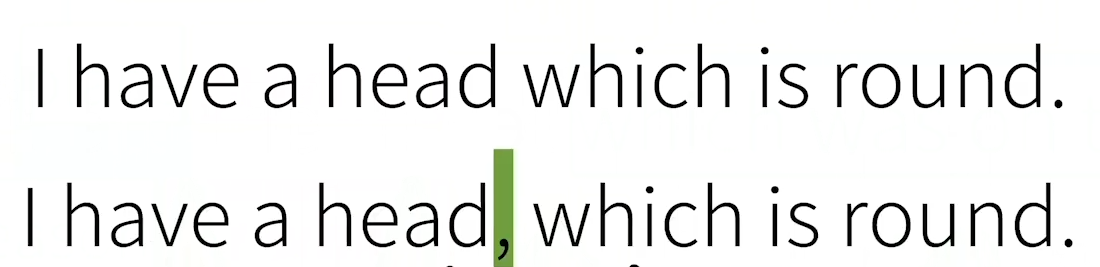
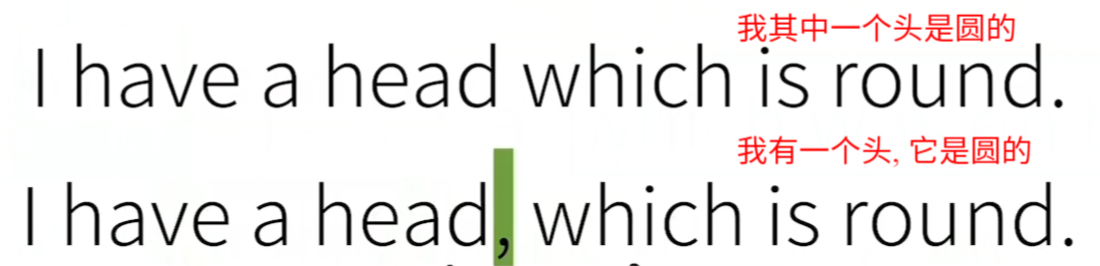
vault backup: 2025-05-13 00:17:40

diff --git a/人工智能/英语/英语兔/10. 从句.md b/人工智能/英语/英语兔/10. 从句.md
@@ -1,16 +1,16 @@
-![525x252](Exported%20image%2020250512104637-0.png)
+![](Exported%20image%2020250512104637-0.png)
 
 # 从句的分类
 
-![508x229](Exported%20image%2020250512104642-1.png)   
+![](Exported%20image%2020250512104642-1.png)   
 
-![521x253](Exported%20image%2020250512104644-2.png)  
+![](Exported%20image%2020250512104644-2.png)  
 
-![487x243](Exported%20image%2020250512104646-3.png)  
+![](Exported%20image%2020250512104646-3.png)  
 
-![539x237](Exported%20image%2020250512104648-4.png)  
+![](Exported%20image%2020250512104648-4.png)  
 
-![552x240](Exported%20image%2020250512104650-5.png)
+![](Exported%20image%2020250512104650-5.png)
 
 
 ## 形容词从句(定语从句)
@@ -18,12 +18,12 @@
 ### 形容词从句的思维方式
 
 #### 中文的定语
-![|558x297](Exported%20image%2020250512104652-6.png)
+![](Exported%20image%2020250512104652-6.png)
           
 #### 英语中的定语
-![](Exported%20image%2020250512104654-7.png)  
+![|700x340](Exported%20image%2020250512104654-7.png)  
 
-![](Exported%20image%2020250512104700-8.png)
+![|700x241](Exported%20image%2020250512104700-8.png)
         
 #### 中英思维方式不同
 ![](Exported%20image%2020250512104702-9.png)  
@@ -45,7 +45,7 @@
 ![](Exported%20image%2020250512104710-13.png)  
 
 ![](Exported%20image%2020250512104712-14.png)  
-            
+
 ##### 关系副词
 ![](Exported%20image%2020250512104717-15.png)
 
@@ -69,6 +69,7 @@
 
   
 ## 名词从句
+![](Exported%20image%2020250512105138-80.png)
 
 ### 主语从句
 
@@ -162,6 +163,7 @@
 
 
 ## 副词从句 (状语从句)
+![](Exported%20image%2020250512105139-81.png)
 
 ### 时间副词从句
 
@@ -220,6 +222,7 @@
 ![](Exported%20image%2020250512105136-79.png)  
 
 ### 地点副词(状语)从句
+![](Exported%20image%2020250512105142-82.png)
 
 表地点(如: 在…地方)
 
@@ -231,21 +234,18 @@
 6. 表原因(如: 应为…所以…)
 7. 表目的(如: 为了…)
 8. 表结果(如: 所以…)
-![](Exported%20image%2020250512105138-80.png)                 
+                 
 
-![](Exported%20image%2020250512105139-81.png)
+
 
 表时间(如: 在…前)
-  ![](Exported%20image%2020250512105142-82.png)
+  
 
 "接着说"
 
-我其中一个头是圆的
-   
 
-我有一个头, 它是圆的
 
-可以直接去掉而不影响句意
+
 
 引导词  
 连接代(副)词
